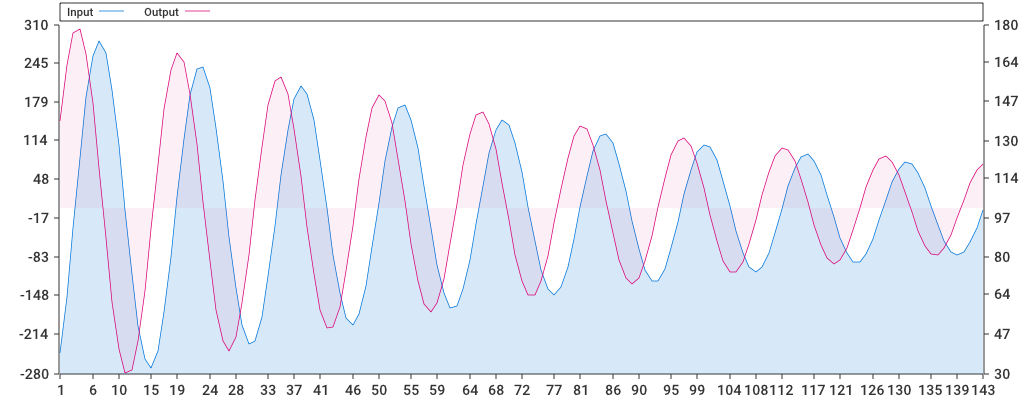
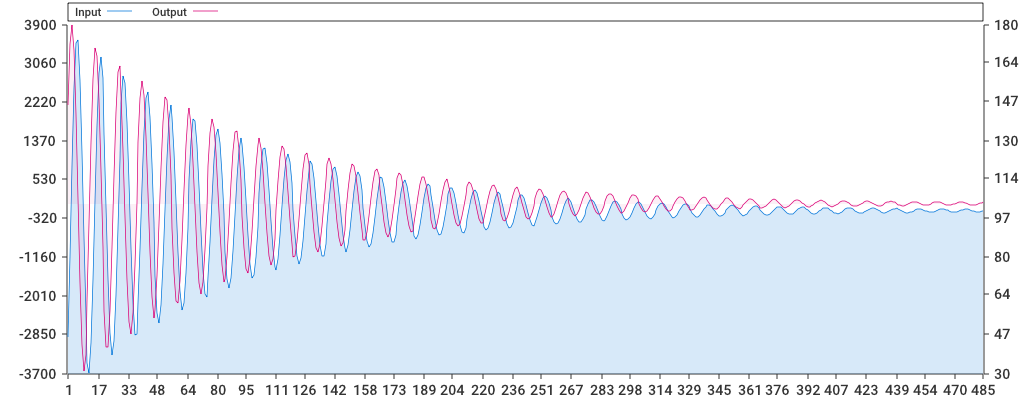
Initial version

Changed region(s): [[0.0, 0.0, 0.9688, 0.96], [0.0625, 0.96, 0.9688, 0.99], [0.125, 0.0, 0.1875, 0.06]]

diff --git a/main.go b/main.go
@@ -14,13 +14,13 @@ func main() {
 	pid := NewPID(interval, 3.0, 5.0, 1.0)
 	//pid.SetOutputLimits(-200.0, 200.0)
 	i := 0.0
-	for math.Abs(setpoint - input) > 0.1 {
+	for math.Abs(setpoint - input) > 0.01 {
 		i++
 		output := pid.Compute(setpoint, input)
 		input +=  noise * output
 		x = append(x, i)
 		y = append(y, input)
-		ys = append(ys, 0.1 * output)
+		ys = append(ys, output)
 		//if i == 125 {
 		//	setpoint = 0
 		//}
